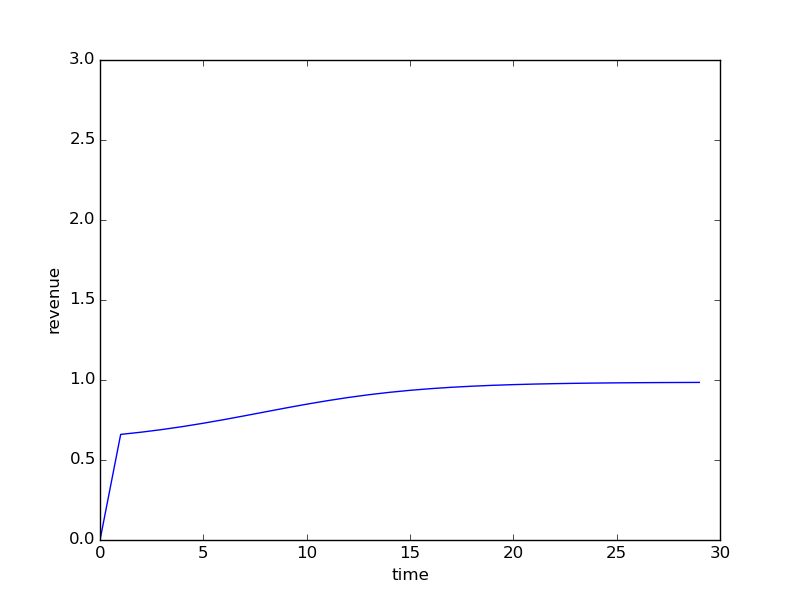
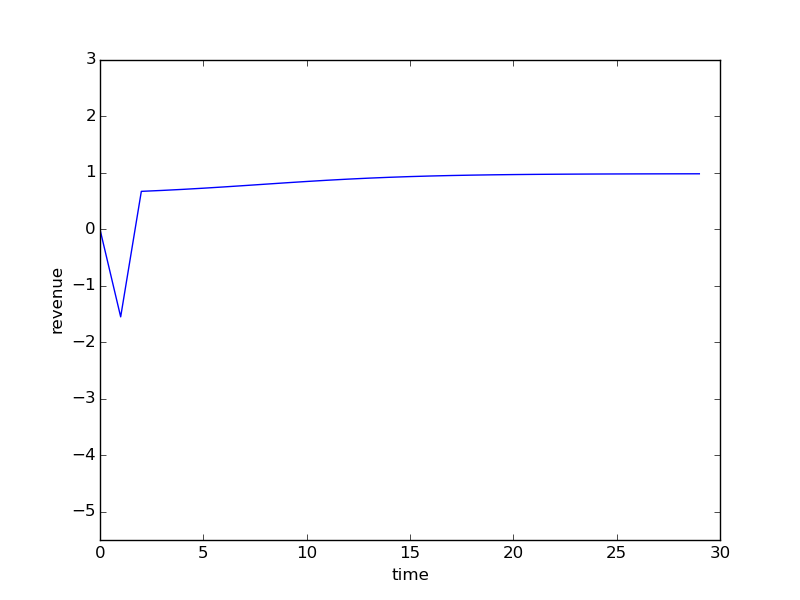
fixed mistake,current rate x the new price

diff --git a/sim_start.py b/sim_start.py
@@ -46,7 +46,8 @@ class scene:
 		self.dict_oneShotDyn[(T, p0)] = dynamic 
 		
 		profit = [x*self.pStar for x in dynamic]
-		profit[0] = profit[0]*p0/self.pStar  #fix for error 
+		profit[0] = 0.0  #fix for error, because we only start counting from T=1
+		profit[1] = p0*dynamic[1] 
 		
 		self.dict_oneShotRev[(T, p0)] = profit
 		
@@ -100,8 +101,8 @@ def growth(r, p, B, lam):
 def discounted_profit(gamma, profit):
 	t=len(profit)
 	total = 0.0
-	for i in range(0,t):
-		total = total + profit[i] * gamma**i
+	for i in range(1,t):
+		total = total + profit[i] * gamma**(i-1)
 
 	return total
 
@@ -150,7 +151,7 @@ for i in range(0,15):
 	fig = py.figure()
 	py.xlabel("time")
 	py.ylabel("revenue")
-	py.axis([0,T,0,3])
+	py.axis([0,T,-5.5,3])
 	py.plot(xAxis, scene1.dict_oneShotRev[(T,p0)])
 	fig.savefig("Rev_p0_"+name+".png")
 	py.close(fig)
